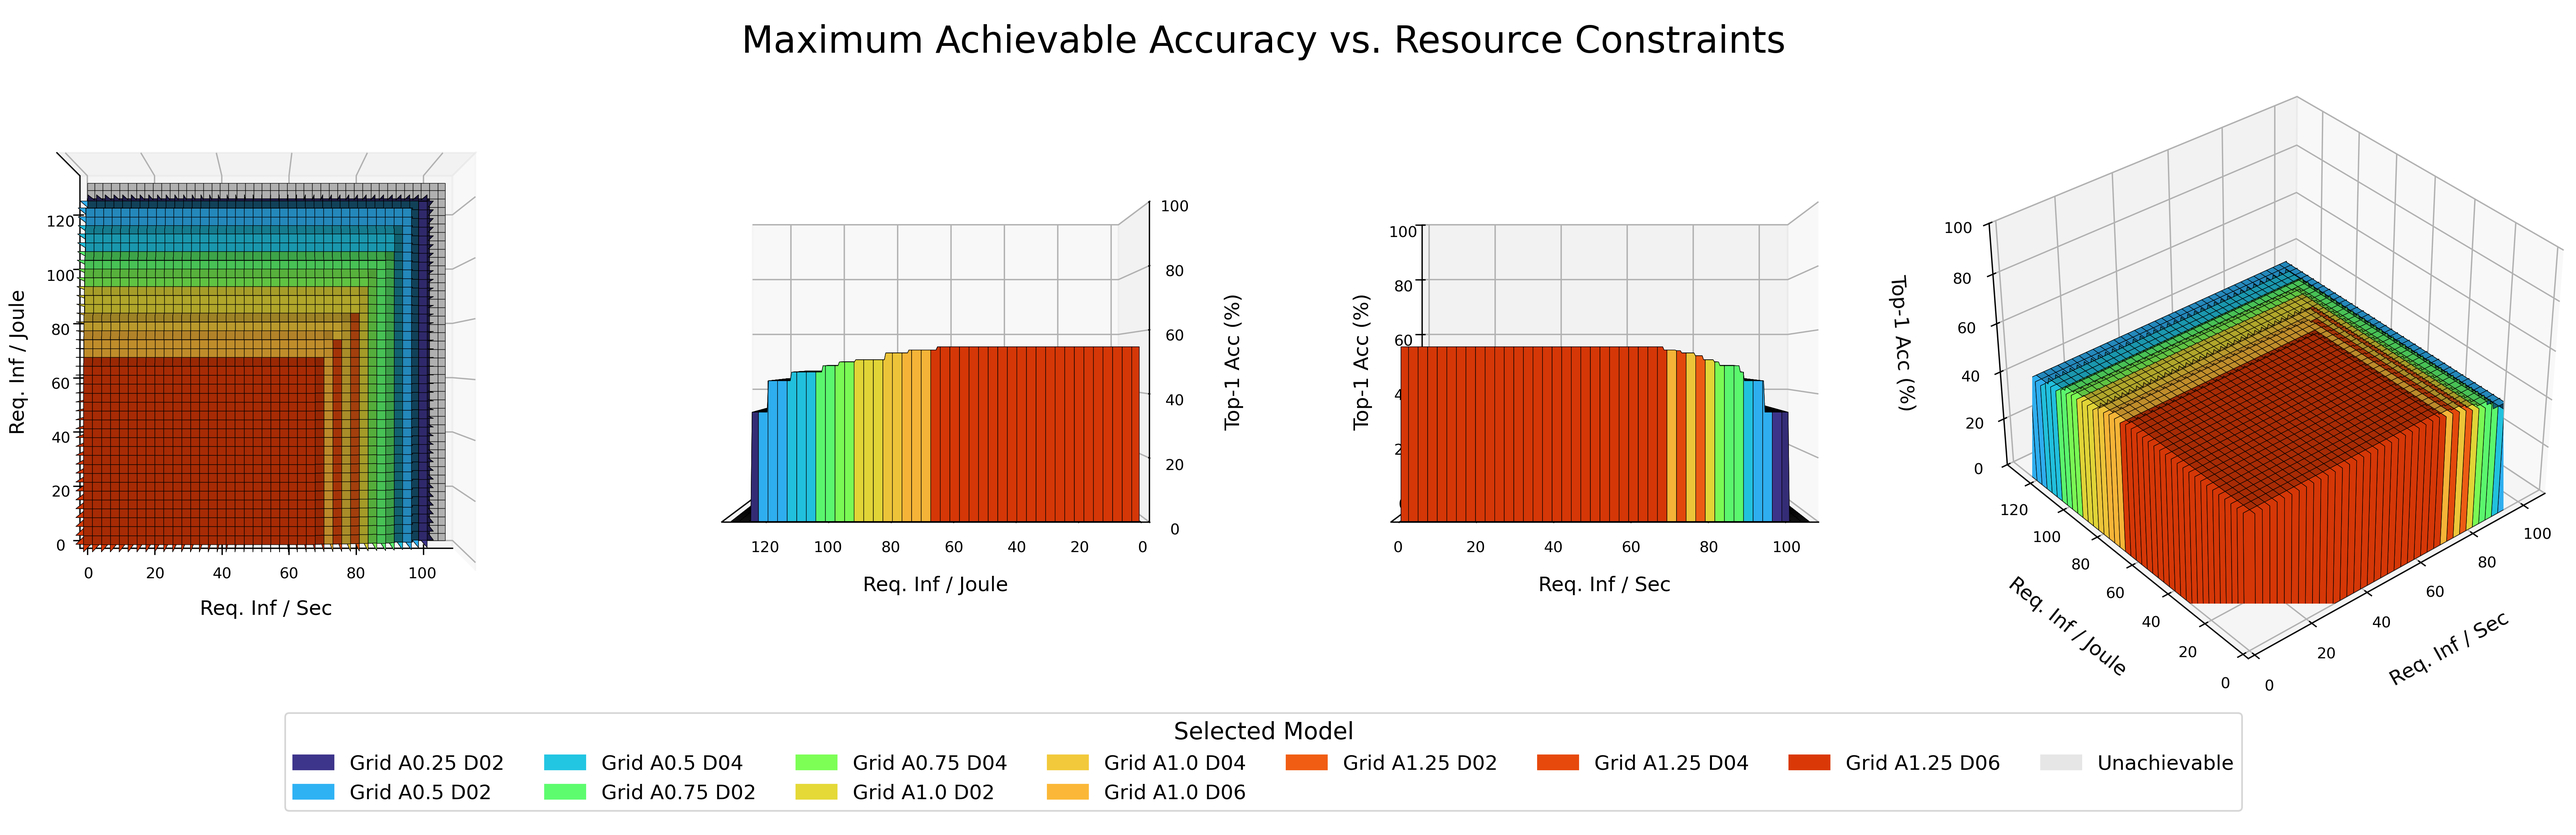
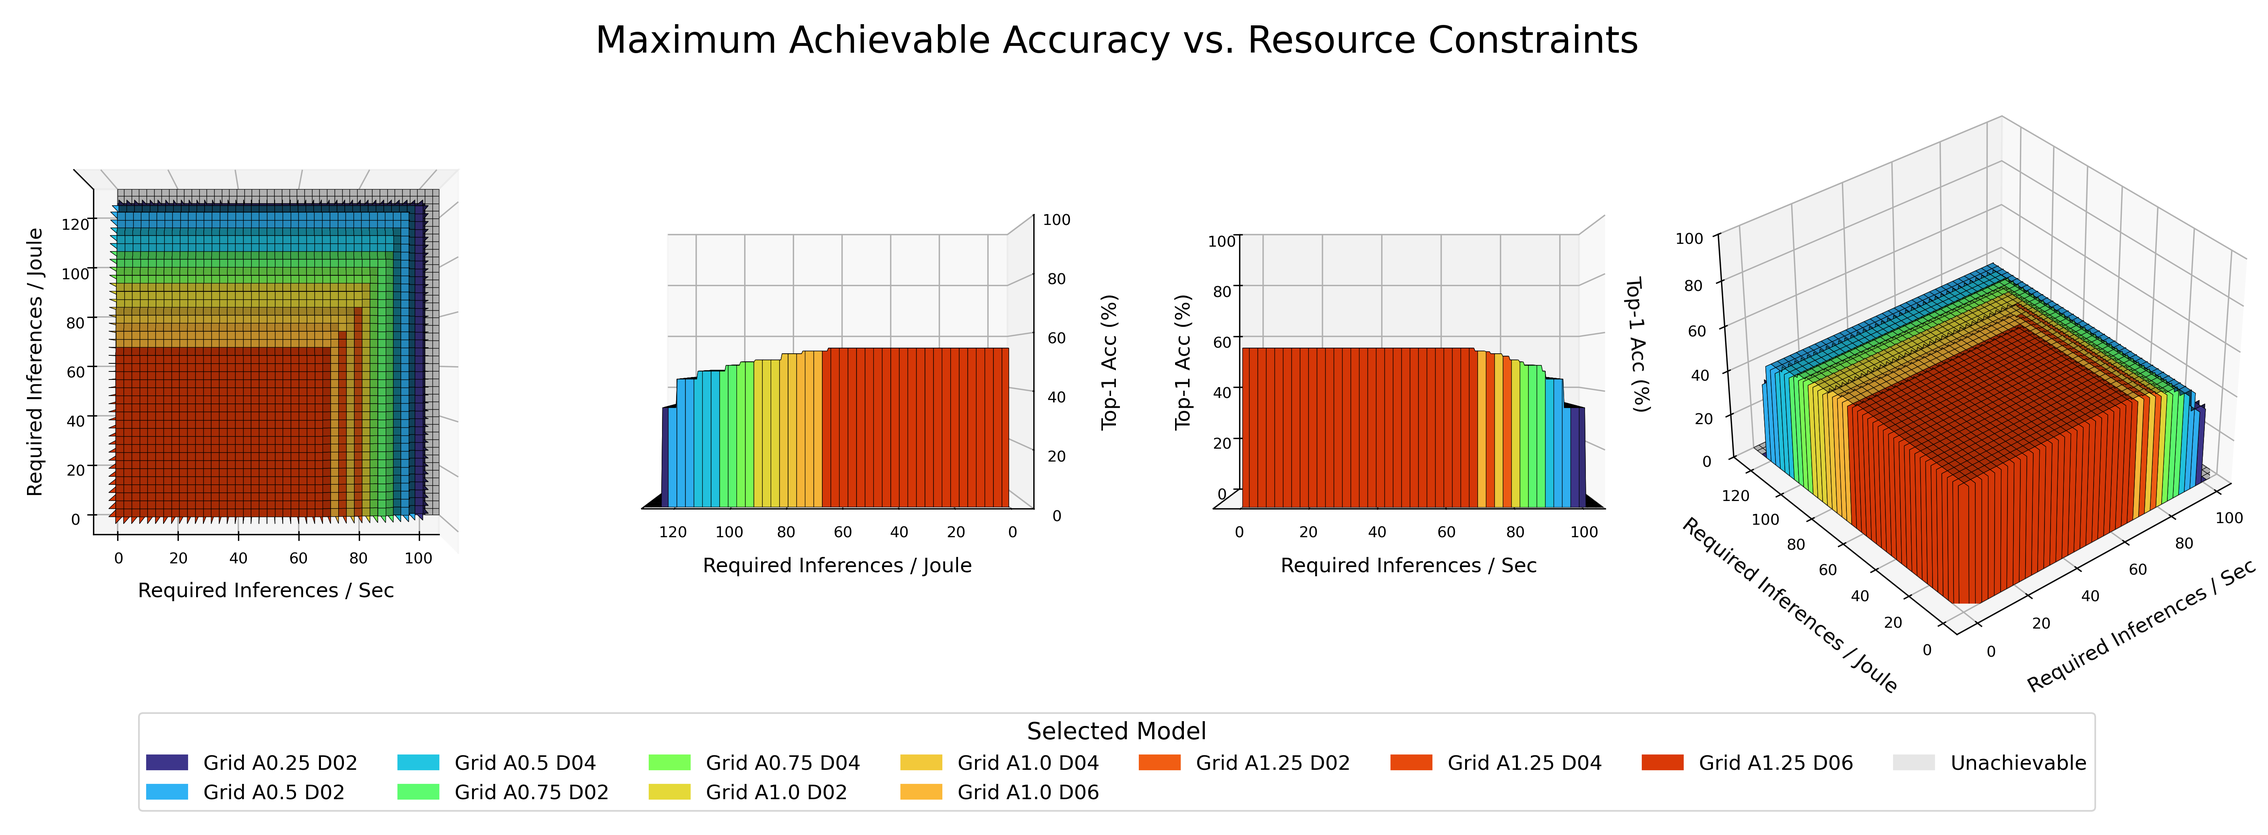
[results] improved 3D plot

diff --git a/src/scripts/hardware_characterization/plotting/tpunet_plotting.py b/src/scripts/hardware_characterization/plotting/tpunet_plotting.py
@@ -642,12 +642,15 @@ class GridStatsPlotting:
                 ccount=45
             )
 
-            # formatting
-            ax.set_zlim(bottom=0, top=100)
+
+            # Push the back-panes out by 10% so the data doesn't swallow the axis lines
+            ax.set_xlim(-8, max_inf_sec)
+            ax.set_ylim(-8, max_inf_joule)
+            ax.set_zlim(0, 100) 
             
             # Subplot titles moved closer
-            ax.set_xlabel("Req. Inf / Sec" if hide_axis != 'x' else "", fontsize=12, labelpad=5)
-            ax.set_ylabel("Req. Inf / Joule" if hide_axis != 'y' else "", fontsize=12, labelpad=5)
+            ax.set_xlabel("Required Inferences / Sec" if hide_axis != 'x' else "", fontsize=12, labelpad=5)
+            ax.set_ylabel("Required Inferences / Joule" if hide_axis != 'y' else "", fontsize=12, labelpad=5)
             ax.set_zlabel("Top-1 Acc (%)" if hide_axis != 'z' else "", fontsize=12, labelpad=5)
             
             # Completely remove the ticks for the hidden axis to avoid the thick black overlapping line
@@ -665,7 +668,7 @@ class GridStatsPlotting:
 
             # ZOOM HACK: Force the 3D plot to fill more of its invisible bounding box
             try:
-                ax.set_box_aspect(None, zoom=1.3) # For modern matplotlib versions
+                ax.set_box_aspect(None, zoom=1.2) # For modern matplotlib versions
             except AttributeError:
                 ax.dist = 7 # Fallback for older matplotlib versions (default is 10)
             ax.margins(0) # Strip extra margins
@@ -689,10 +692,10 @@ class GridStatsPlotting:
             plt.show()
             
         else:
-            fig = plt.figure(figsize=(24, 6)) 
+            fig = plt.figure(figsize=(20.5, 6)) 
             fig.suptitle("Maximum Achievable Accuracy vs. Resource Constraints", fontsize=22, y=1.05)
 
-            # top (view along z-axis) -> hide Z
+            # top 
             ax1 = fig.add_subplot(141, projection='3d')
             render_subplot(ax1, elev=90, azim=-90, hide_axis='z')
 
@@ -707,7 +710,6 @@ class GridStatsPlotting:
             ax4 = fig.add_subplot(144, projection='3d')
             render_subplot(ax4, elev=35, azim=230)
 
-            # AGGRESSIVE SQUEEZE: Negative wspace makes the invisible boxes overlap
             plt.subplots_adjust(wspace=-0.25, bottom=0.25, top=0.9, left=0.0, right=1.0)
             
             # Shared bottom legend
